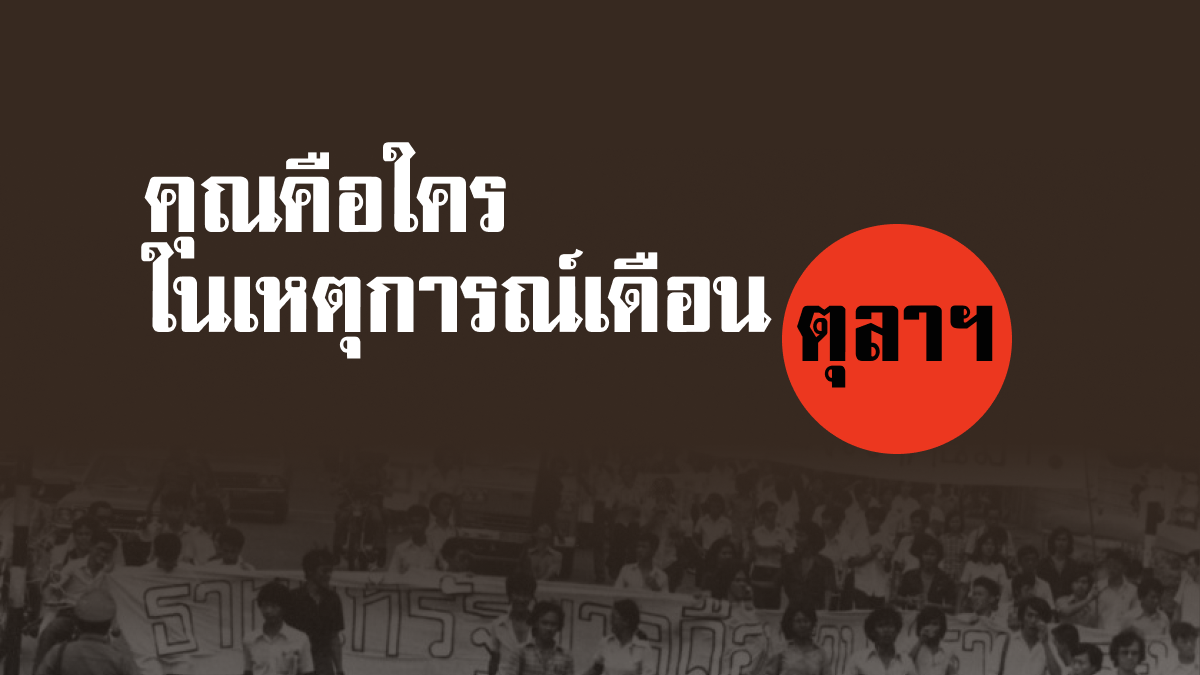
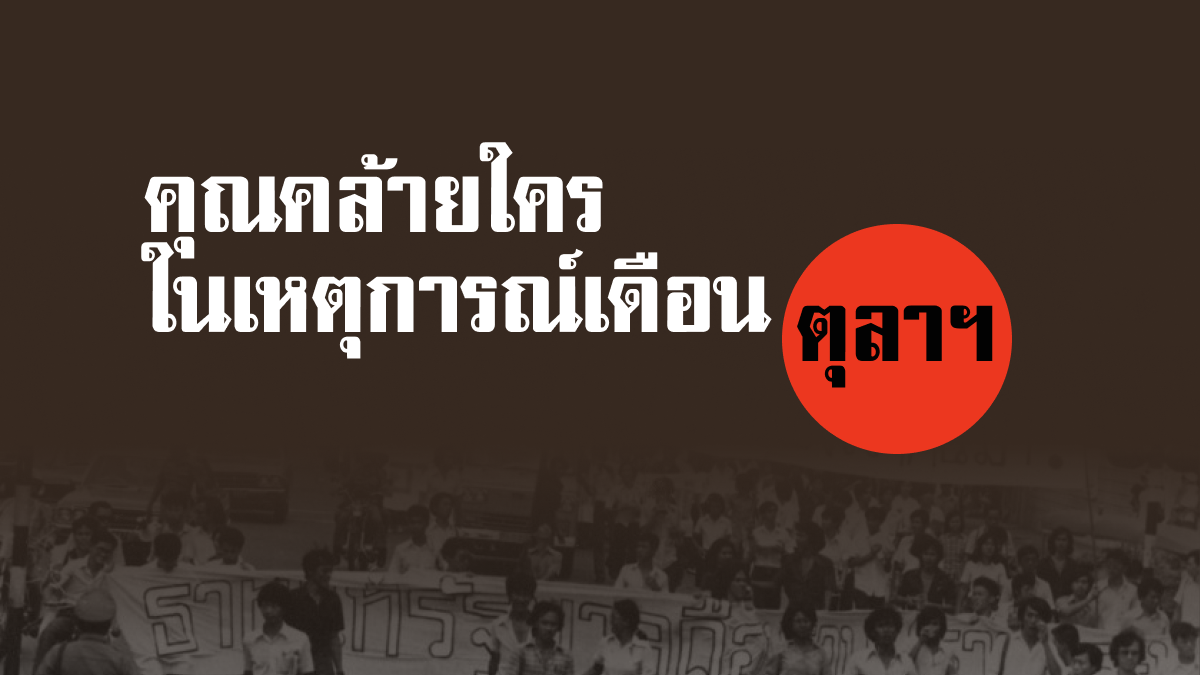
fix landing preview

Changed region(s): [[0.2158, 0.1867, 0.5242, 0.3422]]

diff --git a/src/pages/index.vue b/src/pages/index.vue
@@ -15,7 +15,7 @@ onMounted(() => window.scrollTo(0, 1))
       <div class="flex flex-col justify-center items-center">
         <div class="w-full">
           <div class="font-Prachachon topic">
-            คุณเหมือนใคร
+            คุณคล้ายใคร
           </div>
         </div>
         <div class="relative md:flex">
